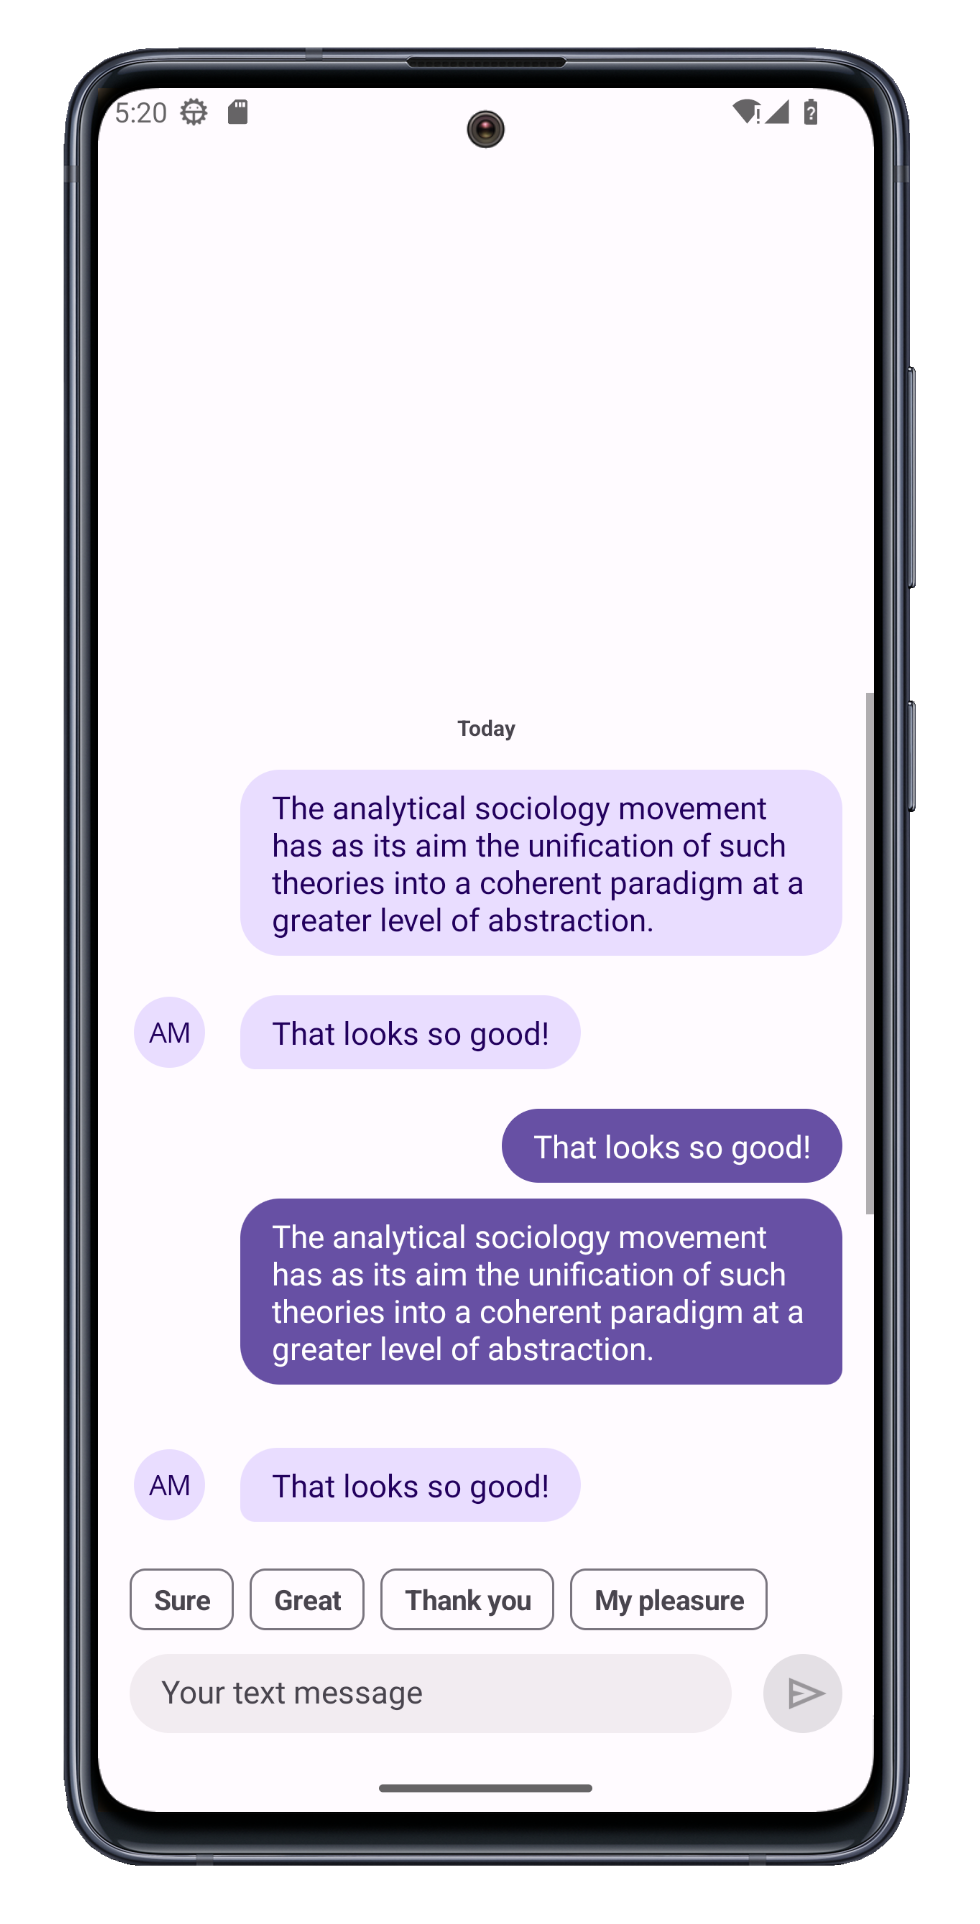
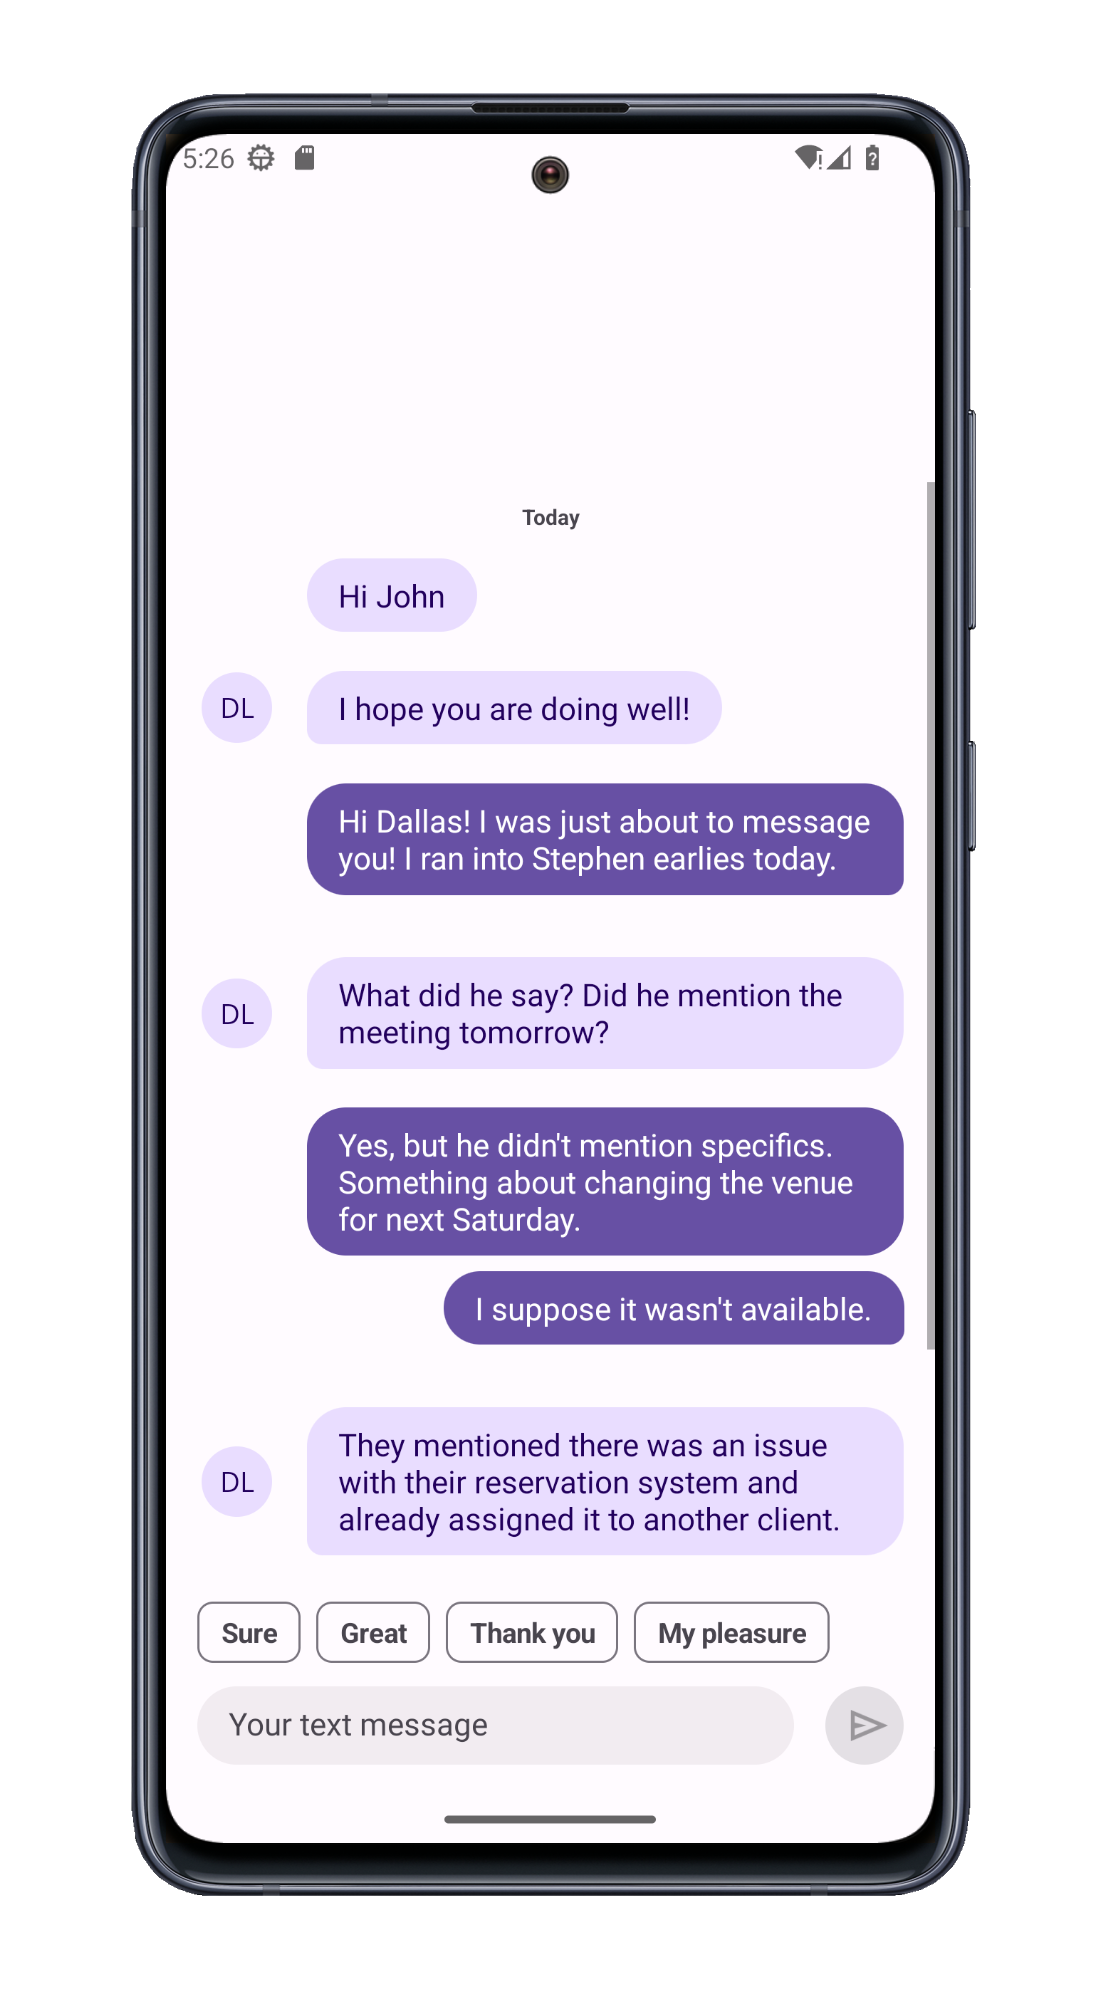
Update messages

diff --git a/CS/ChatViewModel.cs b/CS/ChatViewModel.cs
@@ -12,21 +12,22 @@ namespace ChatApplication {
         [NotifyCanExecuteChangedFor(nameof(SendMessageCommand))]
         string editMessageText;
         public ChatUser Me { get; set; } = new ChatUser() { Name = "Me" };
-        public ChatUser Сompanion { get; set; } = new ChatUser() { Name = "Albert Menendez" };
+        public ChatUser Сompanion { get; set; } = new ChatUser() { Name = "Dallas Lou" };
         public ObservableCollection<Message> Messages { get; set; }
         public ObservableCollection<SuggestedAction> SuggestedActions { get; set; }
 
         Random r = new Random();
 
         public ChatViewModel() {
-            Messages =
-                new ObservableCollection<Message>() {
-                    new Message() { Text = "The analytical sociology movement has as its aim the unification of such theories into a coherent paradigm at a greater level of abstraction.", SentAt = DateTime.Now, Sender = Сompanion },
-                    new Message() { Text = "That looks so good!", SentAt = DateTime.Now.AddMinutes(5), Sender = Сompanion, IsLastMessage = true},
-                    new Message() { Text = "That looks so good!", SentAt = DateTime.Now.AddMinutes(10), Sender = Me },
-                    new Message() { Text = "The analytical sociology movement has as its aim the unification of such theories into a coherent paradigm at a greater level of abstraction.", SentAt = DateTime.Now.AddMinutes(15), Sender = Me, IsLastMessage = true},
-                    new Message() { Text = "That looks so good!", SentAt = DateTime.Now.AddMinutes(20), Sender = Сompanion, IsLastMessage = true},
-                };
+            Messages = new ObservableCollection<Message>() {
+                new Message() { Text = "Hi John", SentAt = DateTime.Now, Sender = Сompanion },
+                new Message() { Text = "I hope you are doing well!", SentAt = DateTime.Now.AddMinutes(5), Sender = Сompanion, IsLastMessage = true },
+                new Message() { Text = "Hi Dallas! I was just about to message you! I ran into Stephen earlies today.", SentAt = DateTime.Now.AddMinutes(10), Sender = Me, IsLastMessage = true },
+                new Message() { Text = "What did he say? Did he mention the meeting tomorrow?", SentAt = DateTime.Now.AddMinutes(15), Sender = Сompanion, IsLastMessage = true },
+                new Message() { Text = "Yes, but he didn't mention specifics. Something about changing the venue for next Saturday.", SentAt = DateTime.Now.AddMinutes(18), Sender = Me },
+                new Message() { Text = "I suppose it wasn't available.", SentAt = DateTime.Now.AddMinutes(20), Sender = Me, IsLastMessage = true },
+                new Message() { Text = "They mentioned there was an issue with their reservation system and already assigned it to another client.", SentAt = DateTime.Now.AddMinutes(25), Sender = Сompanion, IsLastMessage = true},
+            };
             SuggestedActions = new ObservableCollection<SuggestedAction>() {
                 new SuggestedAction() { Message = new Message() { Sender = Me, SentAt = DateTime.Now, Text = "Sure" }, Text = "Sure" },
                 new SuggestedAction() { Message = new Message() { Sender = Me, SentAt = DateTime.Now, Text = "Great" }, Text = "Great" },
